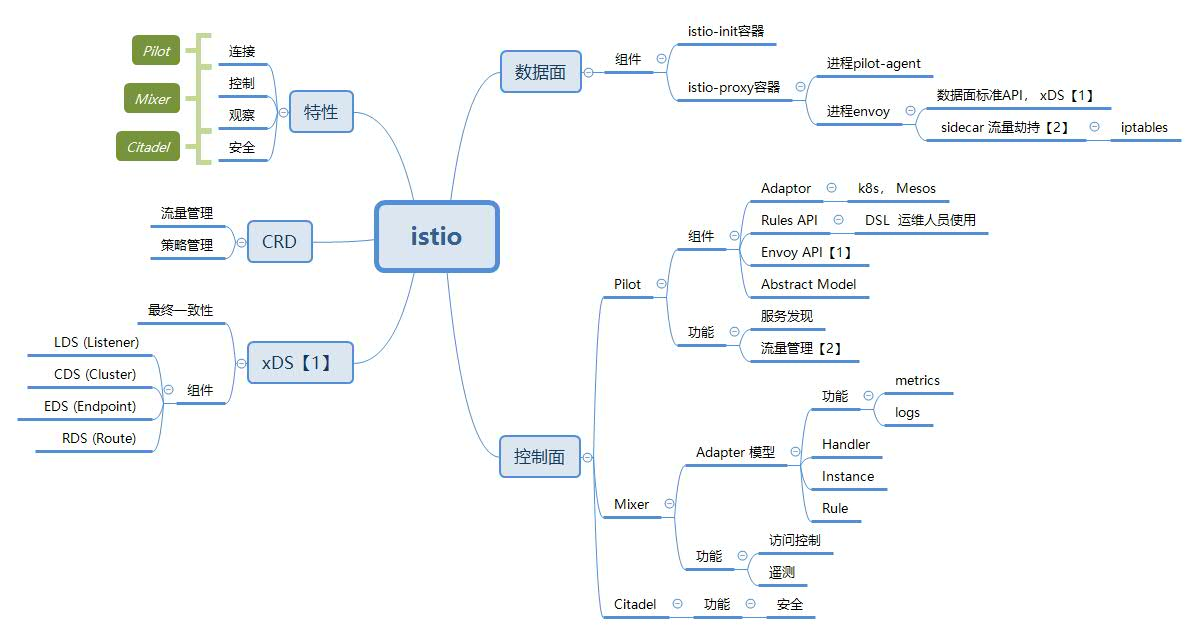
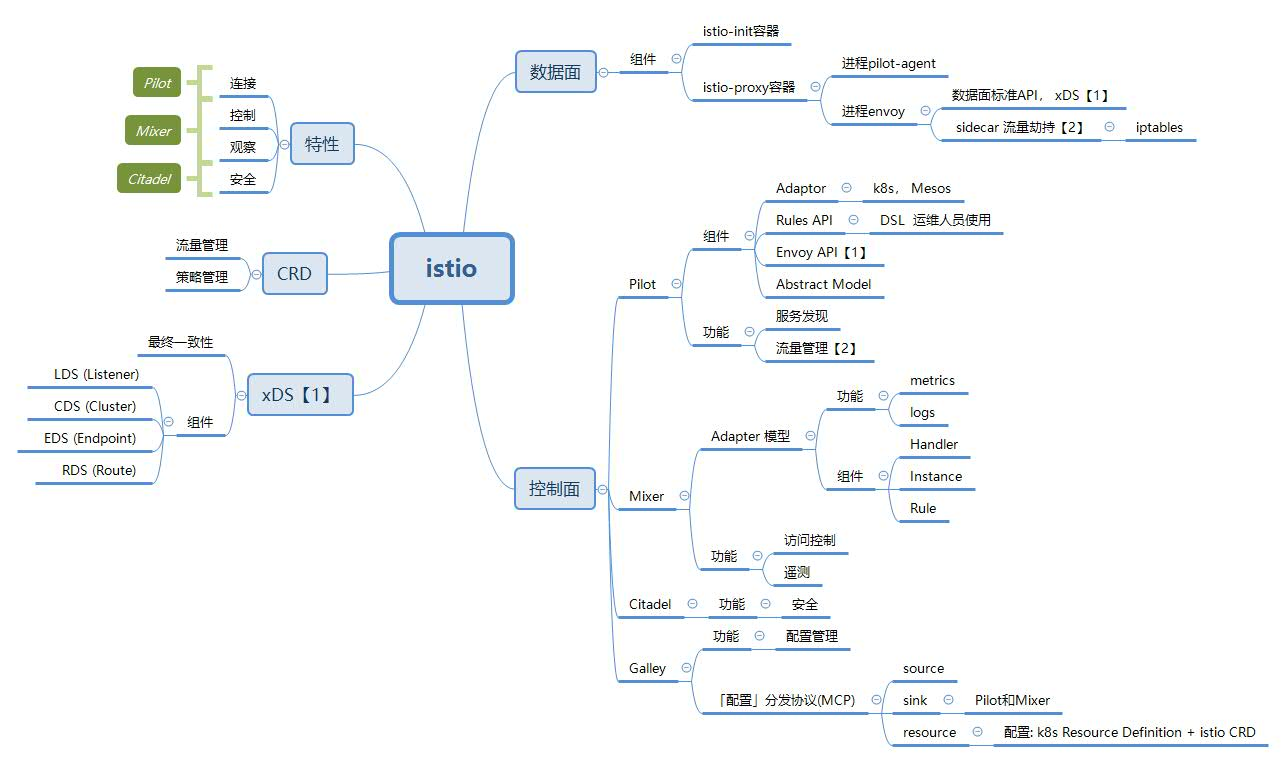
istio

diff --git a/source/_posts/istio.md b/source/_posts/istio.md
@@ -22,4 +22,5 @@ categories:
 1. [Istio流量管理实现机制深度解析](https://zhaohuabing.com/post/2018-09-25-istio-traffic-management-impl-intro/)
 2. [Istio 庖丁解牛1：组件概览](https://mp.weixin.qq.com/s/VwqxrZsVmn4a5PcVckaLxA)
 3. [腾讯云容器团队内部Istio专题分享](https://mp.weixin.qq.com/s/NjMncH84uEl_PywOFFMlFA)
+4. [Istio 庖丁解牛三：galley](https://mp.weixin.qq.com/s/BMVCeiA2aqASbLqyhPomWA)
 
